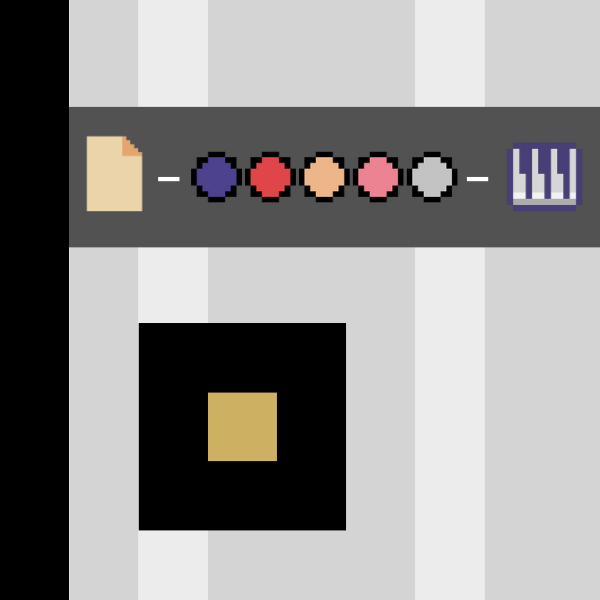
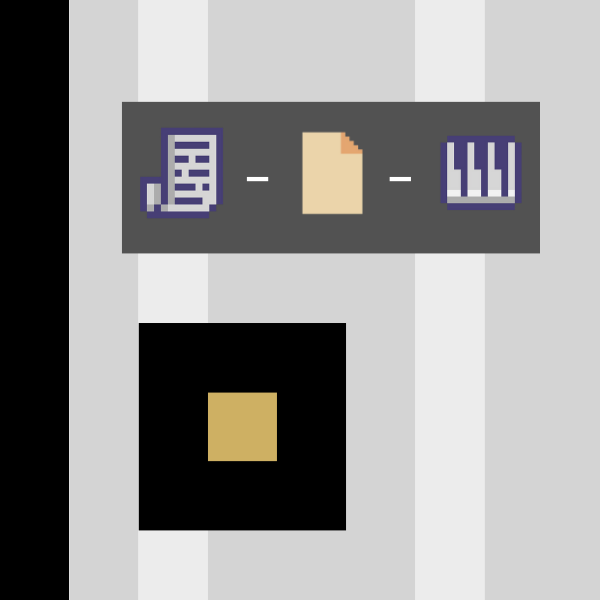
exit door

Changed region(s): [[0.09, 0.15, 1.0, 0.45]]

diff --git a/src/Screens/ExitSide.java b/src/Screens/ExitSide.java
@@ -46,7 +46,7 @@ public class ExitSide extends JPanel implements ActionListener { //, KeyListener
 		backpackButton = new BackpackButton(this);
 		ActionListener backpackAL = backpack.getAL();
 		
-		doorCode = new PasscodeWindow(330, 80, 690, 690, "90-23-CAGED", "img/clue contents/exit door hint.png", 600, 600);
+		doorCode = new PasscodeWindow(330, 80, 690, 690, "23 - 90 - CAGED", "img/clue contents/exit door hint.png", 600, 600);
 		
 		clickableItems = new ArrayList<ClickableItem>();
 		pickupableItems = new ArrayList<PickupableItem>();
